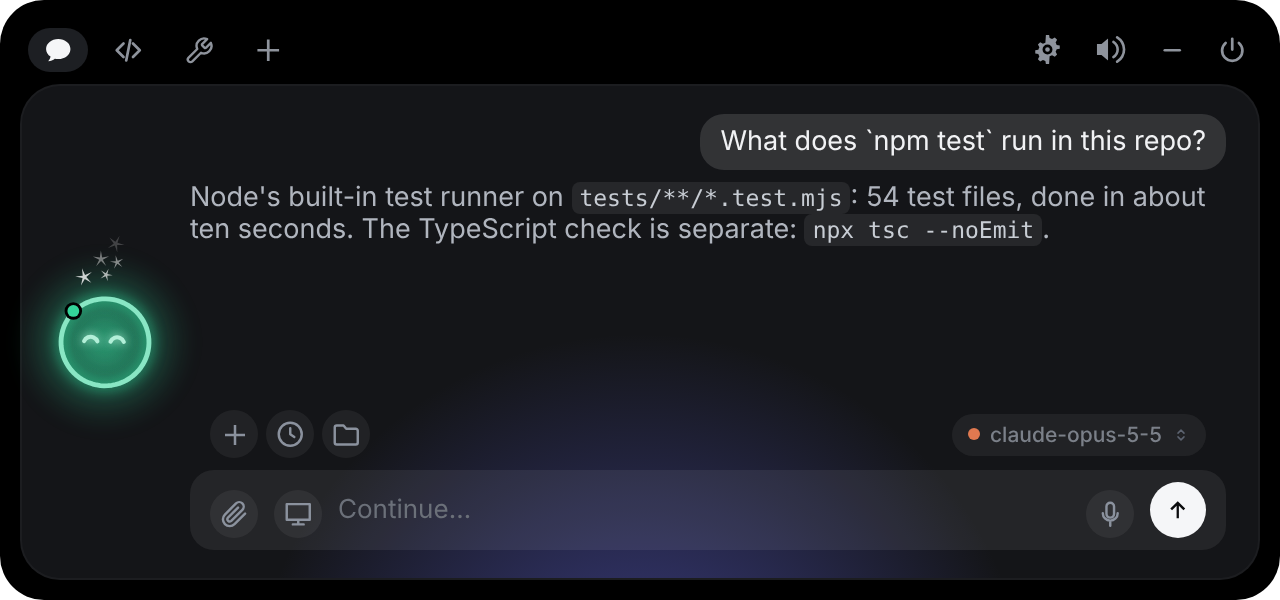
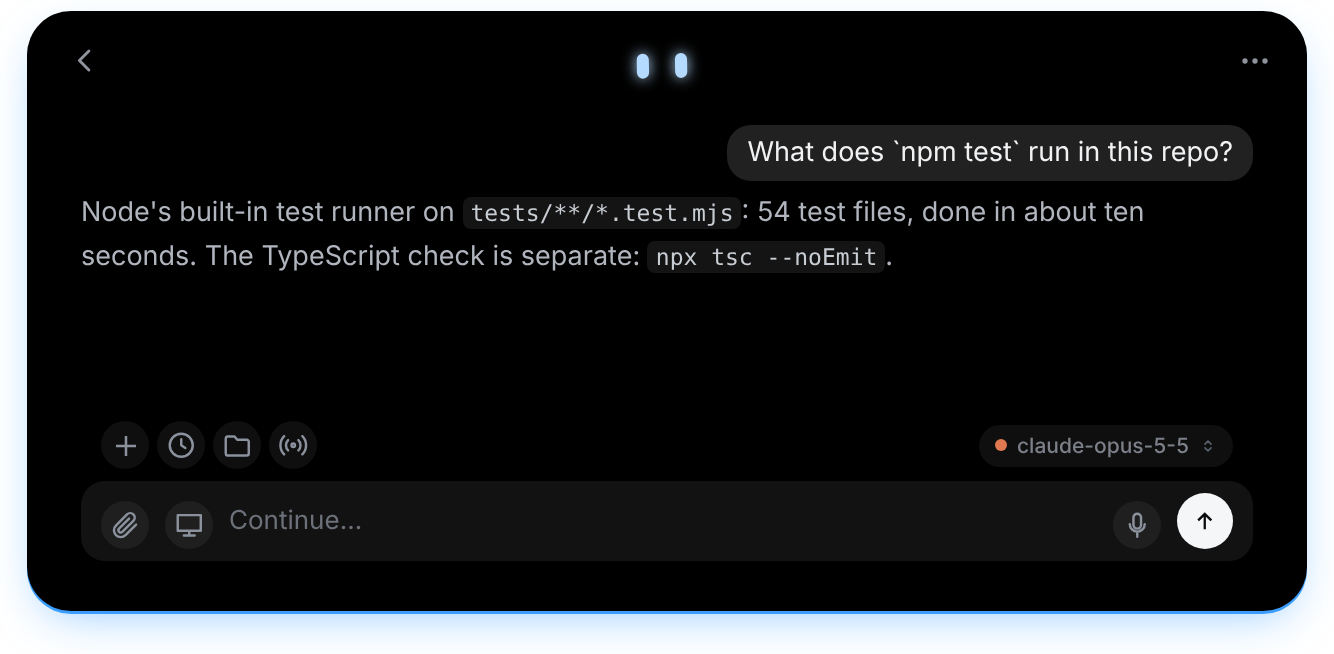
README: the new look's screenshots, features and wording
Claude-Session: https://claude.ai/code/session_01MzT8SPiTDFpQftTYQss36t

diff --git a/README.md b/README.md
@@ -6,14 +6,16 @@
 
 **A tiny friend that lives at the top of your screen on Windows and keeps an eye on your AI coding agent sessions.**
 
-Approve permissions, watch your agents work, drop a file, chat with Claude, Codex or Gemini, give your agents tools of your own, keep an eye on your timers, music, calendar and email — all without leaving what you're doing.
+Approve permissions, watch your agents work, drop a file, chat with Claude, Codex, Gemini or a local model, give your agents tools of your own, keep an eye on your timers, music, calendar and email — all without leaving what you're doing.
 
 [![Version](https://img.shields.io/github/v/release/Rccrd12/Lumo?filter=windows-v*&label=version&color=0A84FF)](https://github.com/Rccrd12/Lumo/releases)
 ![Windows 10/11](https://img.shields.io/badge/Windows-10%2F11-0078D4?logo=windows&logoColor=white)
 ![Tauri 2](https://img.shields.io/badge/Tauri-2-FFC131?logo=tauri&logoColor=black)
 ![Code: MIT](https://img.shields.io/badge/code-MIT-green)
 
-<img src="windows/screenshots/greeting.png" width="640" alt="Lumo lighting up at launch">
+<img src="windows/screenshots/home.png" width="760" alt="Lumo's home: a permission waiting with N and Y, two sessions at work, a timer, the music, the next meeting and the newest email as tiles, the services and the field to the chat">
+
+<img src="windows/screenshots/closed.png" width="326" alt="The closed island: Lumo's eyes, Codex writing main.py and a timer">
 
 </div>
 
@@ -21,74 +23,86 @@ Approve permissions, watch your agents work, drop a file, chat with Claude, Code
 
 The full documentation of the app is in [`windows/README.md`](windows/README.md).
 
-Meet **Lumo**: a small ring of light that peeks out of the top edge of your screen, lights up to say hello, follows your cursor with its eyes, gets annoyed when you poke it, and tells you the moment Claude Code needs you.
+Meet **Lumo**: two bright eyes at the top of your screen. The island they live in peeks out of the edge when you need it, its light running along the border in the colour of what is going on, and it tells you the moment Claude Code needs you. Open it and everything is on one home: what waits for you, the sessions at work, your timers, music, calendar and email, and the field to the chat.
+
+> Lumo 0.18 brought a new look. The one before it, with the ring of light and the tabs, is still there: **Settings → Island → Previous look**.
 
 ## Features
 
-- 🤖 **Claude Code, Codex, Copilot CLI, Muse Code, Antigravity (IDE and CLI), Cursor, OpenCode, Amp, Hermes, Claude Desktop and other agents, live** — see every session in the island: what it reads, edits and runs, step by step. Tag a hook payload with `lumo_agent` to give any agent its own pill (see [`docs/AGENTS.md`](docs/AGENTS.md)). Finished? Lumo does a happy little jump.
-- See what Claude is editing, live: each file modification shows the file name and +N −M counts in the ticker, click it to read the full diff.
-- ✅ **Approve and answer from the island** — permission requests show up with **Allow / Deny** for Claude Code (from any terminal), Codex, Copilot CLI and Muse Code, plus **Allow for this session** to let the same command, file or URL through until that session ends; `AskUserQuestion` prompts show the choices right in the island. Nothing is ever allowed without your click.
-- 🧑💻 **Open terminal** — brings the window a session runs in to the front.
-- 💬 **Chat with Claude, Google AI (Gemini), OpenAI, OpenRouter, or a local model (Ollama, LM Studio, any OpenAI-compatible server)** — click the model name above the chat box to switch provider and model. Cloud providers use your own API key. For Ollama and LM Studio, Settings shows the model in memory, frees it with one click and downloads new ones.
-- 🧠 **Chat with your Claude plan or your ChatGPT account** — pick **Claude Code** or **Codex** above the chat box and the island talks to the CLI you already use, no API key. An action comes up as an Allow / Deny card exactly when the CLI would ask for it, and **the shield** says how much it may do on its own (Ask every time, Auto, Plan only). Antigravity CLI works the same way.
-- 🛠 **Your own tools** — the **Tools** tab lists small programs Lumo and its agents can use for you: a benchmark of your PC, a report from your app, anything you have a script for. **Add a tool** opens the **tool workshop**, a chat where Lumo writes the tool with you (or brings in a script you already have), shows its files and parameters, tries it on your PC and saves it. Claude Code, the island chat and the API providers get them, and a button adds them to Claude Code in the terminal.
-- 🛡 **Lumo's supervisor** — every saved or changed tool is read by a second model, which says in plain words what it really does and whether it looks safe, needs reading first or is dangerous (a dangerous tool is turned off). What a tool declared it needs is enforced: no internet, no files outside its folder, no programs unless it said so. Each call shows its card first.
-- ⌨ **Commands in the chat** — type `/` and a menu opens: `/new`, `/history`, `/model`, `/effort`, `/attach`, `/screen`, `/permissions`, `/timer`, Claude Code's own commands (`/compact`, `/context`, your skills), Antigravity CLI's (`/compact`, `/usage`, `/credits`, `/skills`) and **your tools**, each with its own command: `/pdfcraft merge these two PDFs` tells the AI to use that tool. Only what works with the chosen provider is listed, and Claude Code commands that do nothing outside a terminal are left out. `/context` answers with a small card: how full the context is, what fills it, and the details folded away.
-- 📂 **Chat files** — each chat keeps the files that went with it: what you attached and what Claude Code or Antigravity CLI read, edited or created, to open again with a click.
-- 🗺 **The Plan island** — when an agent (in a terminal or in the island chat) works through a plan, a panel beside the island follows it step by step, with a progress ring; finished plans are kept to look back at.
-- 🎙 **Talk with Gemini Live** — the microphone in the chat box or `Ctrl+Alt+L`: a spoken call with Gemini 3.8 Live (or Extended Thinking) that looks at your screen when it needs to, reads your files and PDFs, opens files and apps, and asks Claude Code or Antigravity CLI for anything else. Uses your Google AI key.
-- ⏱ **Live activities** — the closed island says what's going on: what the AI is doing, your timers, the song playing, the next meeting, a new email; several side by side, centred, with their controls right there. Open the island and a second panel beside it holds **Timer**, **Music**, **Calendar** and **Email**; fold it with **–**, drag it off the island to keep it anywhere (Windows), resize it. Any model in the chat or Gemini Live can set a timer.
-- ✉ **Email** — the Email pill reads your inbox over IMAP (Gmail, Outlook, iCloud, any server, with an app password), read only: a new email peeks out of the closed island within seconds, with **Summarize** and **Draft a reply**. Nothing is moved or marked as read, and with **Settings → General → Security → Email** the AI can also send, answer and forward emails, or manage them (read, star, move, archive, trash), each one only after you click on its card.
-- 🖥 **The chat knows what's open on your PC** — the windows and documents you have open (a PDF, a Word file, a spreadsheet…) go with your question, so "what's this PDF about?" just works. Settings → General → Security turns it off.
-- ➗ **Math in answers** — formulas in LaTeX (`$…$`, `$$…$$`, `\(…\)`, `\[…\]`) are drawn as math: fractions, roots, matrices, sums, vectors.
-- 🖼 **Show the chat your screen** — your open windows or a screenshot, only when you ask; `Ctrl+Alt+P` asks about the screen, `Ctrl+Alt+X` about the selected text, from any app.
-- 📊 **Plan usage** — small pills in the island's header show your 5-hour and weekly Claude plan limits, your Codex limits and your Antigravity CLI quotas. Off by default; Settings → Agents → Plan usage.
-- 📋 **Declare the tools you use** — Settings → Pills & integrations: pick your main tool (VS Code, Cursor, Codex or Antigravity), then up to 4 more agents, chat providers and services.
-- 📎 **Drop a file on the island** — Lumo turns into a box and swallows it, then answers questions about it.
-- 🧲 **An island that docks anywhere** — drag it to the top, bottom, left or right edge, resize it, zoom it.
-- 🔌 **Integrations** — Email (IMAP), Stripe payments, n8n workflows, GitHub (open PRs, reviews requested, CI status, contributions), Vercel deployments, Resend emails, Notion, Cal.com. Each one gets its own little colored Lumo.
-- 👗 **Dress Lumo up** — right-click him for the wardrobe, and pick his look there: a ring of light, a dot, a soft drop or a firefly. He also dresses up for the seasons on his own.
-- ⌨ **Keyboard shortcuts** — open the chat, jump to an alert or a terminal, switch pills, mute or open the wardrobe from anywhere; all customizable in Settings → Shortcuts.
-- 🎭 **A real character** — idle breathing, blinks, eyes on a sphere that follow your mouse, emotes, handcrafted sounds, a greeting on launch.
-- 🫥 **Invisible when idle** — hides away when nothing is running, peeks out when you hover the top edge of the screen.
-- 📅 **Weekly recap** — every Monday Lumo sums up the past week: time coding, sessions, files, lines changed, commands, permissions, top agent and project. Share it as a 1080 × 1920 image with Lumo — project names optional. All local.
-- 🌍 **11 languages** — English, 中文, हिन्दी, Español, العربية, Français, বাংলা, Português, Русский, Bahasa Indonesia, Italiano. Pick one in Settings → General → Language.
-- 🔄 **Updates inside the app** — Lumo says when a newer version is out; **Update now** in Settings downloads it, installs it without any window and opens the new Lumo by itself. The changelog of every version is right there.
-- 🔒 **Private by design** — no telemetry, no account. Keys live in Windows Credential Manager. The app only talks to the services you plug in.
+### Your agents
 
-<p align="center">
-<img src="windows/screenshots/tools.png" width="640" alt="The Tools tab: your own tools, each with its switch, and Add tool">
-</p>
+- 🤖 **Claude Code, Codex, Copilot CLI, Muse Code, Antigravity (IDE and CLI), Cursor, OpenCode, Amp, Hermes, Claude Desktop and other agents, live** — every session on the home: what it reads, edits and runs, step by step, and a green **Done** when it finishes. Tag a hook payload with `lumo_agent` to give any agent its own pill (see [`docs/AGENTS.md`](docs/AGENTS.md)). Each file edit shows its name and +N −M counts; a click opens the full diff.
+- ✅ **Approve and answer from the island** — permission requests come up with two big buttons, **Deny** and **Allow** (or `N` and `Y`), for Claude Code (from any terminal), Codex, Copilot CLI and Muse Code, with **Allow for this session** underneath to let the same command, file or URL through until that session ends. `AskUserQuestion` prompts show the choices right in the island. Nothing is ever allowed without your click.
+- 🗺 **Plans you can read before they start** — when an agent asks to start a plan, its steps show as a numbered list, with **Keep planning** and **Approve the plan** (or write what to change). Once it runs, the **Plan island** follows it step by step with a progress ring, for every provider; finished plans are kept to look back at.
+- 🧑💻 **Open terminal** — brings the window a session runs in to the front.
+- 📊 **Plan usage** — your 5-hour and weekly Claude plan limits, your Codex limits and your Antigravity CLI quotas, as pills on the home and as bars in the chat with when each resets. Off by default; Settings → Agents → Plan usage.
 
 <table>
 <tr>
-<td><img src="windows/screenshots/workshop.png" alt="The tool workshop: a chat where Lumo writes the tool, with its draft, parameters and files beside it, Try and Save tool"></td>
-<td><img src="windows/screenshots/supervisor.png" alt="Lumo's supervisor saying in plain words what a tool does, marked Looks safe"></td>
-</tr>
-<tr>
-<td><img src="windows/screenshots/commands.png" alt="The / menu in the chat: Lumo's commands and a tool of your own"></td>
-<td align="center"><img src="windows/screenshots/plan.png" width="240" alt="The Plan island following Claude Code's plan step by step"></td>
+<td width="50%"><img src="windows/screenshots/approval.png" alt="A Claude Code permission request: Bash npm test, with Deny and Allow as two big buttons and Allow for this session under them"></td>
+<td width="50%"><img src="windows/screenshots/plan-ask.png" alt="Claude Code asking to start a four-step plan in the chat, with Keep planning and Approve the plan"></td>
 </tr>
 </table>
 
-<p align="center">
-<img src="windows/screenshots/activities.png" width="640" alt="The open island with the live activities beside it: a timer, the music playing, the next events and the newest emails">
-</p>
+### The chat
 
-<p align="center">
-<img src="windows/screenshots/compact-activities.png" width="480" alt="The closed island: the next meeting, a timer and the music playing, side by side">
-<br>
-<img src="windows/screenshots/mail.png" width="468" alt="A new email peeking out of the closed island, with Summarize and Draft a reply">
-</p>
+- 💬 **Chat with Claude, Google AI (Gemini), OpenAI, OpenRouter, or a local model (Ollama, LM Studio, Unsloth Studio, any OpenAI-compatible server)** — one field, with **+** for the rest and past chats in the top bar; the model's name beside the field switches provider and model. Cloud providers use your own API key.
+- 🧠 **Chat with your Claude plan or your ChatGPT account** — pick **Claude Code** or **Codex** and the island talks to the CLI you already use, no API key. An action comes up as an Allow / Deny card exactly when the CLI would ask for it, and **the shield** says how much it may do on its own (Ask every time, Auto, Plan only). Antigravity CLI works the same way.
+- 🏠 **Local models that do real work** — tools, pictures, PDFs and reasoning by what the model can do, Lumo's own web search, and a folder of copies for each chat: the model works on copies of your files, and a copy goes over the original only with your click. Settings shows the model in memory, frees it with one click and downloads new ones.
+- 🐙 **The chat reads your GitHub** — with the GitHub pill set up and Settings → General → Security → **GitHub** on Read only, every provider can read your pull requests with their checks and reviews, issues, repositories, commits and Actions runs. Off until you turn it on.
+- ⌨ **Commands in the chat** — type `/` and a menu opens: `/new`, `/history`, `/model`, `/effort`, `/attach`, `/screen`, `/permissions`, `/timer`, `/compact`, Claude Code's own commands (`/context`, your skills), Antigravity CLI's (`/usage`, `/credits`, `/skills`) and **your tools**, each with its own command. Only what works with the chosen provider is listed.
+- 📏 **The chat's usage as bars** — how full the context is after every answer, what fills it after `/context`, and each limit of your plan.
+- 🖼 **Share what's on your PC** — open windows, screens, browser tabs and folders as pills and tiles; nothing is captured until **Send to the chat**. `Ctrl+Alt+P` asks about the screen, `Ctrl+Alt+X` about the selected text, `Ctrl+Alt+B` about the page in the browser, from any app. The names of the windows and documents you have open go with your question, so "what's this PDF about?" just works (Settings → General → Security turns it off).
+- 📎 **Drop files on the island** — several at once, each with its bar; they fly up to Lumo in the top bar and join the chat.
+- 📂 **Chat files** — each chat keeps the files that went with it: what you attached and what Claude Code, Codex or Antigravity CLI read, edited or created, to open again with a click.
+- ➗ **Math in answers** — formulas in LaTeX (`$…$`, `$$…$$`, `\(…\)`, `\[…\]`) drawn as real math in Latin Modern Math, the face of LaTeX: fractions, roots, matrices, sums, vectors, over 500 symbols.
+- 🎙 **Talk with Gemini Live** — the microphone in the chat field or `Ctrl+Alt+L`: a spoken call with Gemini Live that looks at your screen when it needs to, reads your files and PDFs, opens files and apps, and asks Claude Code or Antigravity CLI for anything else. Uses your Google AI key.
+- 🖱 **Let Claude use the computer** — a glowing screen edge, Claude's own mouse, and every action approved by you.
 
 <table>
 <tr>
-<td><img src="windows/screenshots/approval.png" alt="A Claude Code permission request, with Deny, Allow for this session and Allow"></td>
-<td><img src="windows/screenshots/chat.png" alt="Chatting with Claude from the island"></td>
+<td width="50%"><img src="windows/screenshots/chat.png" alt="Chatting with Claude from the island: one field, the model's name beside it"></td>
+<td width="50%"><img src="windows/screenshots/commands.png" alt="The / menu in the chat: new, history, model, attach, screen, timer, compact"></td>
 </tr>
 <tr>
-<td><img src="windows/screenshots/overview.png" alt="The overview: the focused integration on the left, the other pills on the right"></td>
-<td><img src="windows/screenshots/drop.png" alt="Lumo turned into a box, waiting for a file"></td>
+<td width="50%"><img src="windows/screenshots/share.png" alt="Share with the chat: open windows, screens, tabs and folders as pills and tiles, with Send to the chat"></td>
+<td width="50%"><img src="windows/screenshots/drop.png" alt="The island ready for a file: Drop your files here, PDF, images, code, docs"></td>
+</tr>
+</table>
+
+### Tools, listening and your day
+
+- 🛠 **Your own tools** — small programs Lumo and its agents can use for you: a benchmark of your PC, a report from your app, anything you have a script for. **Add a tool** (right on the home) opens the **tool workshop**, a chat where Lumo writes the tool with you (or brings in a script you already have), tries it on your PC and saves it. Claude Code, Codex, Antigravity CLI, the island chat and the API providers get them.
+- 🛡 **Lumo's supervisor** — every saved or changed tool is read by a second model, which says in plain words what it really does and whether it looks safe, needs reading first or is dangerous (a dangerous tool is turned off). What a tool declared it needs is enforced: no internet, no files outside its folder, no programs unless it said so.
+- 👂 **Listening** — Lumo can keep an ear on a GitHub pull request, a file or a folder, a program, a web page, an email, the calendar, your services, Windows, your agents, a webhook or one of your tools, once or every time, and tell you or have the chat act on it.
+- ⏱ **Live activities** — on the home, as tiles: the timer with its ring round the tile's edge, the music playing with its controls, the next events of your calendar, the newest emails. The closed island says what's going on, several things side by side. Any model in the chat or Gemini Live can set a timer.
+- ✉ **Email** — the Email pill reads your inbox over IMAP (Gmail, Outlook, iCloud, any server, with an app password): a new email peeks out of the closed island within seconds, with **Summarize** and **Draft a reply**. Read only unless you allow more in **Settings → General → Security → Email**, and then each send, reply or move waits for your click on its card.
+- 🔌 **Integrations** — Email (IMAP), Stripe payments, n8n workflows, GitHub (open PRs, reviews requested, CI status, contributions), Vercel deployments, Resend emails, Notion, Cal.com, as pills on the home.
+- 📋 **Declare the tools you use** — Settings → Pills & integrations: pick your main tool (VS Code, Cursor, Codex or Antigravity), then up to 4 more agents, chat providers and services.
+
+<table>
+<tr>
+<td width="50%"><img src="windows/screenshots/tools.png" alt="Your tools: each with what it uses written out, the supervisor's verdict and its switch, and Add a tool"></td>
+<td width="50%"><img src="windows/screenshots/home-plan.png" alt="The home with a plan under way, a timer, the music, the services and the plans' usage"></td>
+</tr>
+</table>
+
+### The island
+
+- 🫥 **Invisible when idle** — hides away when nothing is running, peeks out when you hover the top edge of the screen. Its opening is the island's light coming on.
+- 🧲 **Docks anywhere** — drag it to the top, bottom, left or right edge, resize it, zoom it; the home goes narrower than the other views.
+- 👗 **The wardrobe** — right-click Lumo and pick the light along the island's edge (Full light, Soft light, Line only, Glow only) and Claude's mouse for computer use. In the previous look, Lumo's outfits and styles (a ring of light, a dot, a soft drop, a firefly), dressed for the seasons on his own.
+- ⚙ **Settings in the island** — the search and the sections on top, always in sight while scrolling.
+- ⌨ **Keyboard shortcuts** — open the chat, jump to an alert or a terminal, switch pills, mute or open the wardrobe from anywhere; all customizable in Settings → Shortcuts.
+- 📅 **Weekly recap** — every Monday Lumo sums up the past week: time coding, sessions, files, lines changed, commands, permissions, top agent and project. Share it as a 1080 × 1920 image — project names optional. All local.
+- 🌍 **11 languages** — English, 中文, हिन्दी, Español, العربية, Français, বাংলা, Português, Русский, Bahasa Indonesia, Italiano. Settings → General → Language.
+- 🔄 **Updates inside the app** — Lumo says when a newer version is out; **Update now** downloads it, installs it without any window and opens the new Lumo by itself. **Beta versions** (off unless turned on in Settings → Updates) let you try what's coming before it's released.
+- 🔒 **Private by design** — no telemetry, no account. Keys live in Windows Credential Manager. The app only talks to the services you plug in.
+
+<table>
+<tr>
+<td width="50%"><img src="windows/screenshots/settings.png" alt="Settings inside the island: the search and the sections on top, General below"></td>
+<td width="50%"><img src="windows/screenshots/wardrobe.png" alt="The wardrobe: the island's edge light (Full light, Soft light, Line only, Glow only) and Claude's mouse for computer use"></td>
 </tr>
 </table>
 
@@ -196,9 +210,9 @@ The full list of supported agents, what each one installs and how it answers is 
 |---|---|
 | Move the mouse to the very top-centre of the screen | peeks out and says hi 👋 |
 | Click the small island | opens |
-| Click Lumo | squish + annoyed for a moment |
+| Click Lumo | annoyed for a moment |
 | Right-click Lumo | the wardrobe |
-| Drag a file onto the island | turns into a box and swallows it |
+| Drag files onto the island | it opens, takes them and sends them up to Lumo, into the chat |
 | `Ctrl+Alt+Space` | opens the chat, from any app |
 | `Ctrl+Alt+P` / `Ctrl+Alt+X` | asks about your screen / the selected text |
 | `Ctrl+Alt+L` | talks with Gemini Live |
@@ -224,7 +238,7 @@ Every global shortcut can be changed or turned off in **Settings… → Shortcut
 - Keys live in Windows Credential Manager, never on disk and never in the interface.
 - The only network requests Lumo makes are to the services you configure yourself.
 - Screenshots are taken only when you ask, and shown to you before anything is sent. The names of the windows and documents you have open go with a chat question unless you turn it off in Settings → General → Security, where you also choose whether the AI may read your email and calendar.
-- Email and the calendar are only read: emails stay unread, and nothing is ever sent, moved or deleted.
+- Email and the calendar are only read unless you allow more in Settings → General → Security; then every email sent, moved or deleted waits for your click on its card. GitHub reaches the chat only once you turn it on there.
 - The log and the weekly recap history stay on your machine.
 
 ## Contributing

diff --git a/windows/README.md b/windows/README.md
@@ -15,7 +15,7 @@ Approve Claude Code permissions, watch your session work, drop a file, chat with
 
 </div>
 
-<img src="screenshots/greeting.png" width="640" alt="Lumo lighting up at launch">
+<img src="screenshots/home.png" width="760" alt="Lumo's home: a permission waiting with N and Y, two sessions at work, a timer, the music, the next meeting and the newest email as tiles, the services and the field to the chat">
 
 ---
 
@@ -92,13 +92,24 @@ the exe it runs from.
 
 ## Using it
 
-<img src="screenshots/compact.png" width="292" alt="The compact island">
-<img src="screenshots/compact-activities.png" width="480" alt="The closed island: the next meeting, a timer and the music playing, side by side">
-<img src="screenshots/mail.png" width="468" alt="A new email peeking out of the closed island, with Summarize and Draft a reply">
-<img src="screenshots/overview.png" width="640" alt="The overview: the focused integration on the left, the other pills on the right">
-<img src="screenshots/approval.png" width="640" alt="A Claude Code permission request, with Deny, Allow for this session and Allow">
+<img src="screenshots/closed.png" width="326" alt="The closed island: Lumo's eyes, Codex writing main.py and a timer">
+<img src="screenshots/approval.png" width="640" alt="A Claude Code permission request, with Deny and Allow as two big buttons and Allow for this session under them">
 <img src="screenshots/chat.png" width="640" alt="Chatting with Claude from the island">
-<img src="screenshots/drop.png" width="640" alt="Lumo turned into a box, waiting for a file">
+<img src="screenshots/drop.png" width="640" alt="The island ready for a file: Drop your files here">
+
+Since 0.18 Lumo is two eyes in the open island's top bar and on the closed
+island, and the island's light runs along its edge, in the colour of what is
+going on (picked in the wardrobe). Open it and **the home** holds everything
+that used to sit in tabs: what waits for you (with `N` and `Y` right on it),
+the sessions at work and the chats answering in the background, the plans
+under way, the live activities as tiles (the timer with its ring round the
+tile's edge, the music, the calendar, the email), the services and the plans'
+usage, and the field to the chat. The chat is one field, with **+** for the
+rest and past chats in the top bar; **…** at the top right holds Settings,
+Sounds, Keep the island open, Wardrobe, Hide in the edge of the screen and
+Quit. **Settings → Island → Previous look** brings back the look of 0.17,
+with the ring of light and the tabs, exactly as it was. Most of what follows
+works the same in both looks.
 
 | What you do | What happens |
 |---|---|
@@ -106,7 +117,7 @@ the exe it runs from.
 | Click the small island | It opens |
 | Click Lumo | It gets annoyed for a moment |
 | Rest the pointer on Lumo for two seconds | Hearts |
-| Right-click Lumo | The wardrobe: rest the pointer on an outfit to try it on, click to keep it. **Auto** dresses him for the season (the scarf in winter, the leaf in spring). Next to the outfits, **Lumo's style** picks his look the same way: **Filo**, a ring of light whose colour tells what is going on (the default), **Punto**, a dot of light, **Goccia**, a soft drop, or **Lucciola**, the firefly; also in Settings → Island → Lumo's look |
+| Right-click Lumo | The wardrobe. In the new look it picks the light along the island's edge (**Full light**, **Soft light**, **Line only**, **Glow only**) and Claude's mouse for computer use. In the previous look: rest the pointer on an outfit to try it on, click to keep it. **Auto** dresses him for the season (the scarf in winter, the leaf in spring). Next to the outfits, **Lumo's style** picks his look the same way: **Filo**, a ring of light whose colour tells what is going on (the default), **Punto**, a dot of light, **Goccia**, a soft drop, or **Lucciola**, the firefly; also in Settings → Island → Lumo's look |
 | Drag a file onto the island | Lumo turns into a box, swallows it, then offers to answer questions about it |
 | Click a file in the session ticker | Its diff opens in the island; ↗ opens the file in VS Code, ‹ or `Esc` goes back |
 | Drag the island by its top bar (the closed island from anywhere, or `Alt` + drag anywhere) | Picks it up; let go and it docks on the nearest edge of the screen under the mouse: top, bottom, or upright on the left or right side, centred when dropped near the middle of the edge. **Put the island back in the centre** (tray menu or Settings) brings it home to the top |
@@ -189,7 +200,9 @@ always the mains-power choice.
 
 ### Live activities
 
-<img src="screenshots/activities.png" width="640" alt="The open island with the live activities beside it">
+<img src="screenshots/activities.png" width="640" alt="The previous look: the open island with the live activities beside it">
+
+In the new look they are tiles on the home instead; what follows is the previous look.
 
 Beside the open island (on the top and bottom edges) a second island holds
 what goes on and what can be started: **Timer** (the running ones, 1, 5, 10
@@ -390,7 +403,7 @@ only and No access.
 
 ## Claude Code
 
-<img src="screenshots/settings.png" width="640" alt="The settings window, on Chat: Claude, Antigravity CLI and Codex">
+<img src="screenshots/settings.png" width="640" alt="Settings inside the island: the search and the sections on top, General below">
 
 Open **Settings… → Agents → Claude Code → Install hooks…**. You get the exact diff of what
 will change in `%USERPROFILE%\.claude\settings.json`, the path of the dated backup
